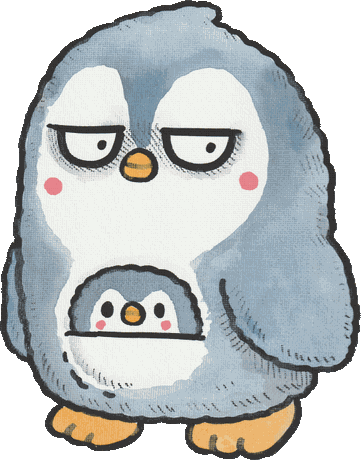
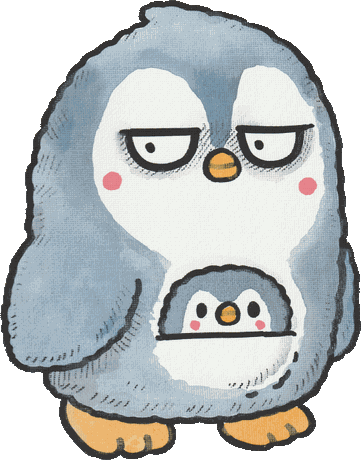
fq-cast-tune-v1: フワフワを前面・反転／ペガサスを大きく／電車をゆっくり／ペンギン反転

diff --git a/index.html b/index.html
@@ -542,7 +542,9 @@ const FQ = {
        6〜14秒で左から右へ、26〜34秒でもどってくる。
      ★出番の時刻は、この動きの中に書いてある（at は 0）。
        ほかの子とちがい「2回ぶんを1つの動きに書く」やり方。ロケットと同じ。
-     ★文字より「うしろ」（#actors）。前に出すとキャッチコピーを隠す。
+     ★fq-cast-tune-v1: 文字より「まえ」（#actorsfront）に変えた。
+       うしろだとキャッチコピーに隠れて、ほとんど見えなかったため。
+       小さい子（横54pxまで）なので、前に出しても文字は読める。
      ★上下は bottom の％。px で書くと画面の高さで位置がずれる。
      ★高さの帯を分けてあるので、下を走る子や文字の上を跳ねる子とぶつからない。
          地面 … 散歩・滑る・電車   ／ 文字の上 … 跳ねる（78%）
@@ -568,7 +570,9 @@ const FQ = {
      56.8%,100%{opacity:0; transform:translateX(-26vw) scaleX(1);}
   }
   .m-dash{left:0;animation:a-dash 60s linear infinite;}
-  .m-dash img{animation:i-dash .19s ease-in-out infinite alternate;}
+  /* fq-cast-tune-v1: 走る速さをゆるめたので、体のゆれも同じだけゆるめる。
+     .19秒のままだと「ゆっくり進むのに小刻みに震えている」ように見える。 */
+  .m-dash img{animation:i-dash .40s ease-in-out infinite alternate;}
   @keyframes a-dash{
       /* ★fq-cast-v3: 右から左へ走るように変えた。
          この子の絵はもともと左を向いているので、右へ走らせると
@@ -577,11 +581,15 @@ const FQ = {
       /* ★0.3%→3.8% で渡りきる。60秒ひとまわりなので、およそ 2.1秒。
          3.8% を小さくすると速く、大きくするとゆっくり。
          ★ただし 15.1秒から黒猫が出るので、これ以上のばすと3人になる。 */
+      /* ★fq-cast-tune-v1: 電車なのでゆっくりにした。
+           0.3%→3.8%（2.1秒）を 0.3%→7.8%（4.5秒）へ。
+           数字を大きくするほどゆっくり。ただし出番は 35.5秒からなので、
+           のばしすぎると 43.5秒のロケットとぶつかる。 */
       0%      {opacity:0; transform:translateX(calc(100vw + 130px));}
       0.3%    {opacity:1; transform:translateX(calc(100vw + 130px));}
-      3.8%    {opacity:1; transform:translateX(-150px);}
-      3.9%    {opacity:0; transform:translateX(-150px);}
-      4.0%,100%{opacity:0; transform:translateX(calc(100vw + 130px));}
+      7.8%    {opacity:1; transform:translateX(-150px);}
+      7.9%    {opacity:0; transform:translateX(-150px);}
+      8.0%,100%{opacity:0; transform:translateX(calc(100vw + 130px));}
   }
   @keyframes i-dash{
     from{transform:translateY(0)    rotate(-11deg);}
@@ -723,7 +731,13 @@ const FQ = {
        ペガサスには文字が入っていないので、裏返しても問題ない。
        ★おなかに字がある子は、絵を裏返してはいけない（294の2人を参照）。
      ★これ以上大きくすると、文字の上を渡るときキャッチコピーにぶつかる。 */
-  .m-bounce{--aw:clamp(58px,17vw,96px);left:0;animation:a-bounce 60s ease-in-out infinite;}
+  /* fq-cast-tune-v1: もっと大きく。96px → 144px（上限）。
+     ★実測で、この大きさでもキャッチコピーには当たらない。
+       文字の上にいるとき（19秒あたり）の上端と、キャッチコピーの下端:
+         画面 360px … 上端103px ／ コピー下端57px
+         画面1280px … 上端119px ／ コピー下端66px
+       これ以上大きくすると当たるので、広げるときは必ず測り直すこと。 */
+  .m-bounce{--aw:clamp(86px,25vw,144px);left:0;animation:a-bounce 60s ease-in-out infinite;}
   .m-bounce img{animation:i-hoplet .46s ease-in-out infinite alternate;}
   @keyframes a-bounce{
       /* ── 1回目：左下→文字の上→画面の中で着地→右へ（出番15秒／7秒） ── */
@@ -1532,7 +1546,9 @@ const FQ = {
          飛ぶ子(rocket) … ロゴや日付の上を通るので、前に出すと文字を隠す
          落ちる子(drop)  … 入場無料の丸の「うしろ」に隠れてから出てくる役
          のぞく子(peek)  … 日付の絵のうしろが定位置 */
-    const FRONT = ['bounce', 'skate', 'walk', 'dash'];
+    /* fq-cast-tune-v1: フワフワの猫（float）も文字のまえへ。
+       うしろだとキャッチコピーに隠れて、ほとんど見えなかった。 */
+    const FRONT = ['bounce', 'skate', 'walk', 'dash', 'float'];
     const sit   = A.filter(c => c.move === 'sit');
     const peek  = A.filter(c => c.move === 'peek');
     const front = A.filter(c => FRONT.indexOf(c.move) >= 0);

diff --git a/service-worker.js b/service-worker.js
@@ -12,7 +12,7 @@
        つながらない時だけキャッシュを出す（＝オフラインでも開ける）。
      - アイコン・manifest だけ「キャッシュ優先」（変わらないので速さ優先）。
    ------------------------------------------------------------------ */
-const CACHE = 'fq326-v12';  // fq-cast-add-v1: 電車・フワフワ・右ロケットの絵を足したので版を上げる
+const CACHE = 'fq326-v13';  // fq-cast-tune-v1: フワフワとペンギンの絵を反転したので版を上げる
 // ★画像は下で「キャッシュ優先」にしている。版を上げないと、
 //   一度端末に取り込まれた古い絵がいつまでも出続ける。
 //   ★img/ の絵を差し替えたら、必ずここの数字を上げること。

diff --git a/README.md b/README.md
@@ -3835,3 +3835,54 @@ HIROさんの指定で、**ふつうの `flip` の作りに戻した**。
 
 ★**人を足すときは「時間」ではなく「帯」で考えること。**
 時間割だけで守ろうとすると、9人になった時点で破綻する。
+
+---
+
+## `fq-cast-tune-v1` — 散歩キャラの手直し4つ（2026-09-14）
+
+### ① フワフワの猫を「文字のまえ」に
+
+`fq-cast-add-v1` では**文字のうしろ**（`#actors`）に置いた。キャッチコピーを
+隠さないための判断だったが、実際は**隠れてほとんど見えなかった**。
+
+`FRONT` の並びに `'float'` を足して、**文字のまえ**（`#actorsfront`）に変えた。
+横54pxまでの小さい子なので、前に出しても文字は読める。
+
+### ② ペガサスをもっと大きく
+
+横幅 `96px` → **`144px`**（上限）。
+
+★**測ってから広げた。** 文字の上にいるとき（19秒あたり）の上端と、
+キャッチコピーの下端はこうなっている。
+
+| 画面幅 | ペガサスの上端 | キャッチコピーの下端 |
+|---|---|---|
+| 360px | 103px | 57px |
+| 430px | 111px | 63px |
+| 768px | 127px | 66px |
+| 1280px | 119px | 66px |
+
+**これ以上大きくすると当たる。** 広げるときは必ず測り直すこと。
+
+### ③ 電車の子をゆっくりに
+
+`a-dash` の渡りきる時間を **2.1秒 → 4.5秒**（`3.8%` → `7.8%`）。
+電車なので、走り抜けるより ゆっくり通っていくほうが合う。
+
+★**体のゆれ（`i-dash`）も同じだけゆるめた**（`.19秒` → `.40秒`）。
+ここを直さないと「ゆっくり進むのに小刻みに震えている」ように見える。
+**速さを変えたら、中の絵の動きも必ずセットで見直すこと。**
+
+★出番は35.5秒から。のばしすぎると43.5秒のロケットとぶつかる。
+
+### ④ 絵の反転を2つ
+
+| 子 | どうしたか |
+|---|---|
+| フワフワの猫（No.18） | **画像ファイルを左右反転** |
+| 右から飛ぶペンギン（No.60） | **画像ファイルを左右反転** |
+
+どちらも文字が入っていないので、ファイルを裏返してよい。
+（おなかに字がある294の2人は、ファイルを裏返してはいけない。`fq-cast-fix-v3` 参照）
+
+★**絵を差し替えたら `service-worker.js` の版を上げること**（いま `fq326-v13`）。
